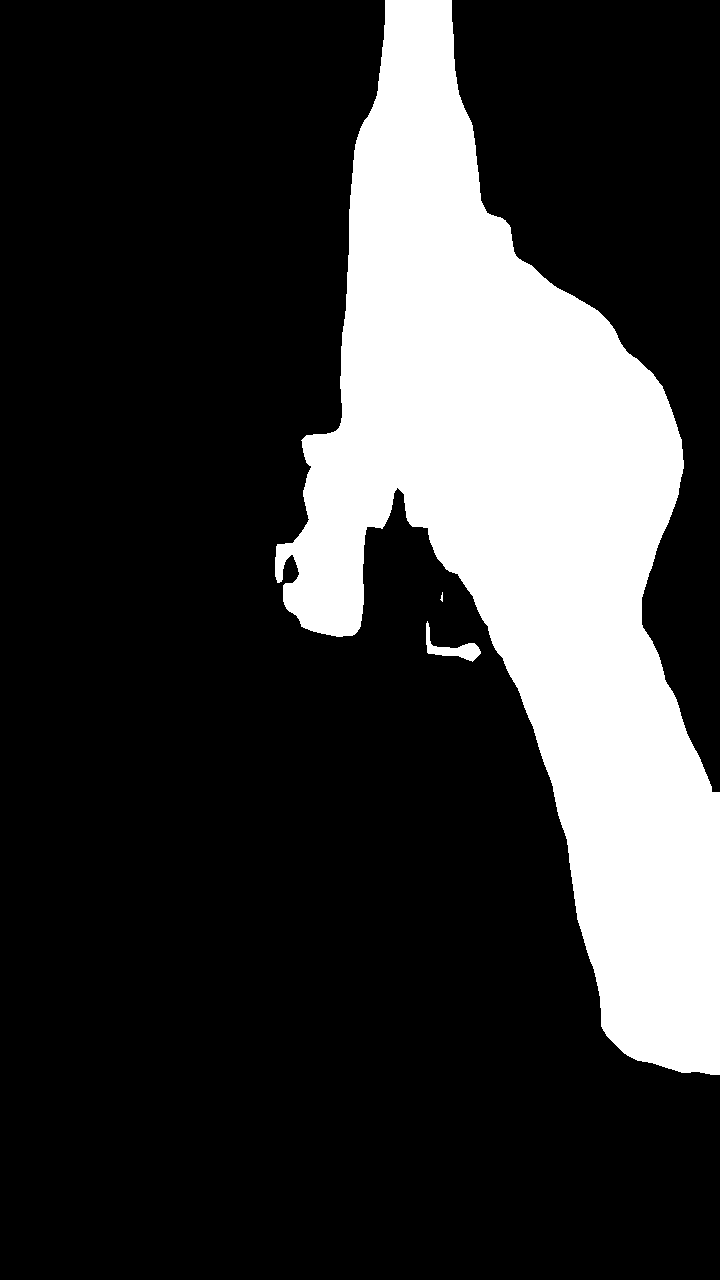
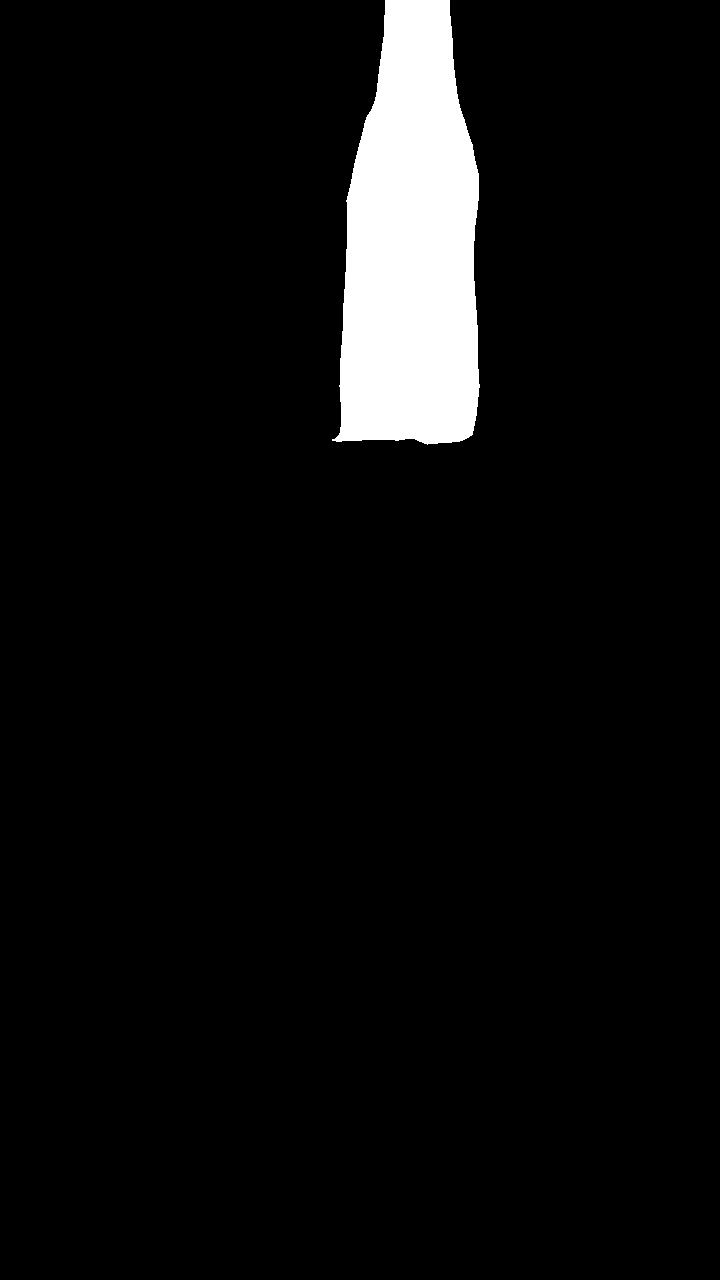
fix(gt): mask mIoU phải dùng ô prompt CHUẨN 300,275,150,410 (không phải ô lan truyền 288,287,431,734)
Phát hiện khi chuẩn bị chấm mIoU: prompt 288,287,431,734 (ô LAN TRUYỀN lấy từ CSV drift, phủ chai +
tay + thân người) làm SAM 2 bám luôn tay/áo ⇒ mask 168k px thay vì ~40k px. Ảnh kiểm frame 0 cho thấy
ô chai CHUẨN là 300,275,150,410 (docs/demo-clip-va-o-chon.md).

- data/masks_binh1_192_2026-11-15/: mask THÔ sinh lại với prompt đúng; manifest.bbox_xywh = [300,275,150,410].
- docs/gt/binh1_tay/README.md: ghi ô chuẩn + cảnh báo 'đừng dùng ô lan truyền làm prompt'.

diff --git a/docs/gt/binh1_tay/README.md b/docs/gt/binh1_tay/README.md
@@ -49,7 +49,12 @@ python scripts/score_miou.py score --gt docs/gt/binh1_tay \
 
 Mask của model đã có sẵn trong `data/masks_binh1_192_2026-11-15/` (sinh bằng
 `tools/live_worker.py --image-size 192 --vos-every 1 --dump-mask-frames "2,12,…,106"`, ô chọn
-`288,287,431,734`; `manifest.json` ghi `image_size` hiệu lực = **192**, `cau_hinh_lech = []`).
+**`300,275,150,410`** — ô CHUẨN cho chai `binh1` theo `docs/demo-clip-va-o-chon.md`;
+`manifest.json` ghi `image_size` hiệu lực = **192**, `cau_hinh_lech = []`).
+
+> ⚠ Đừng dùng `288,287,431,734` (ô xuất hiện trong CSV drift và trong bảng cấu hình 14-11/15-11) làm
+> **prompt**: ô đó là ô **LAN TRUYỀN** giữa clip (431×734, phủ chai + tay + thân người), dùng nó làm
+> prompt thì model bám luôn tay/áo — đã gặp 15-11 (mask 168k px thay vì ~40k px).
 
 ## Đọc kết quả cho đúng
 
